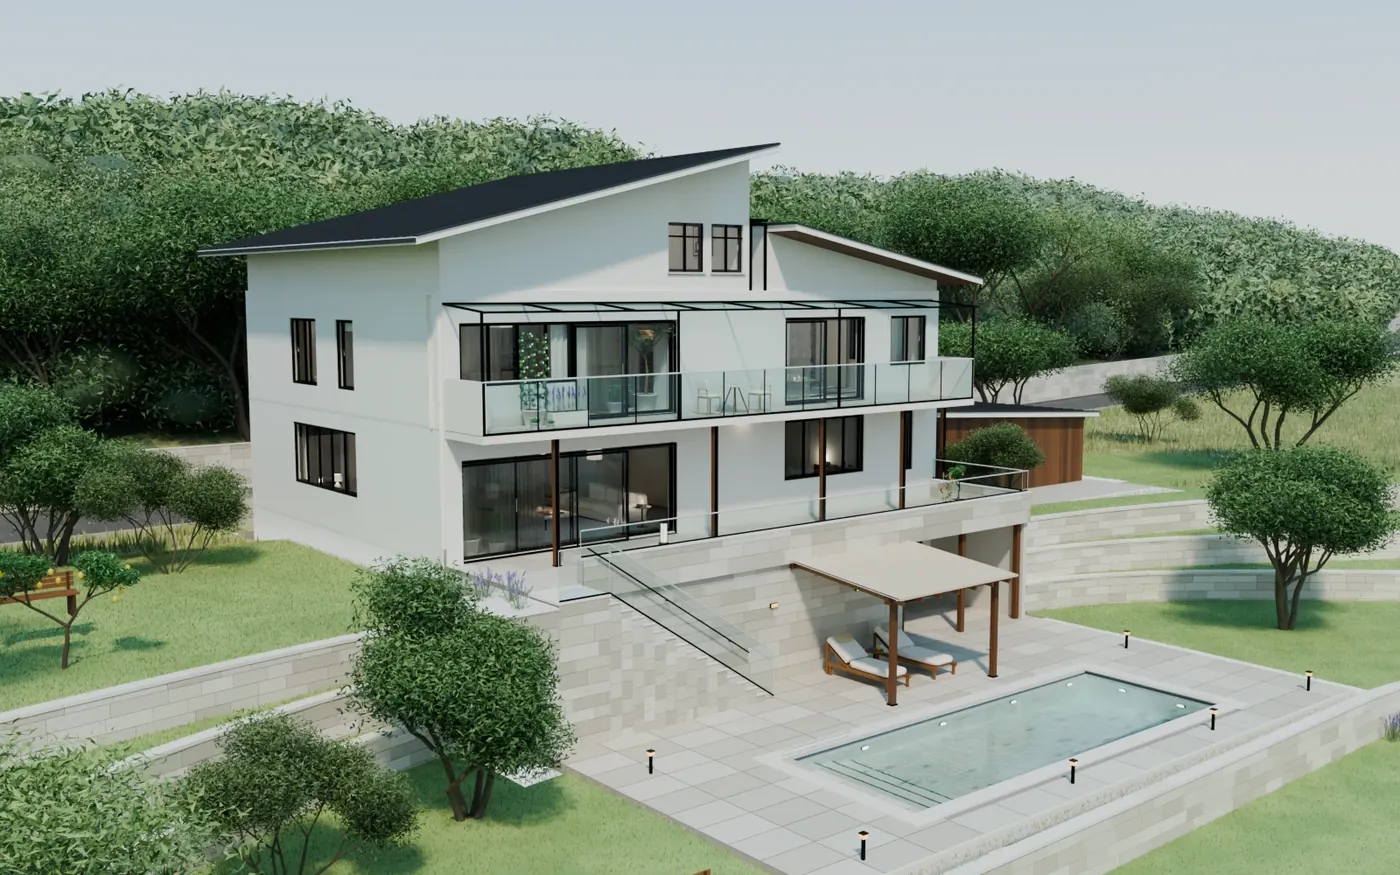
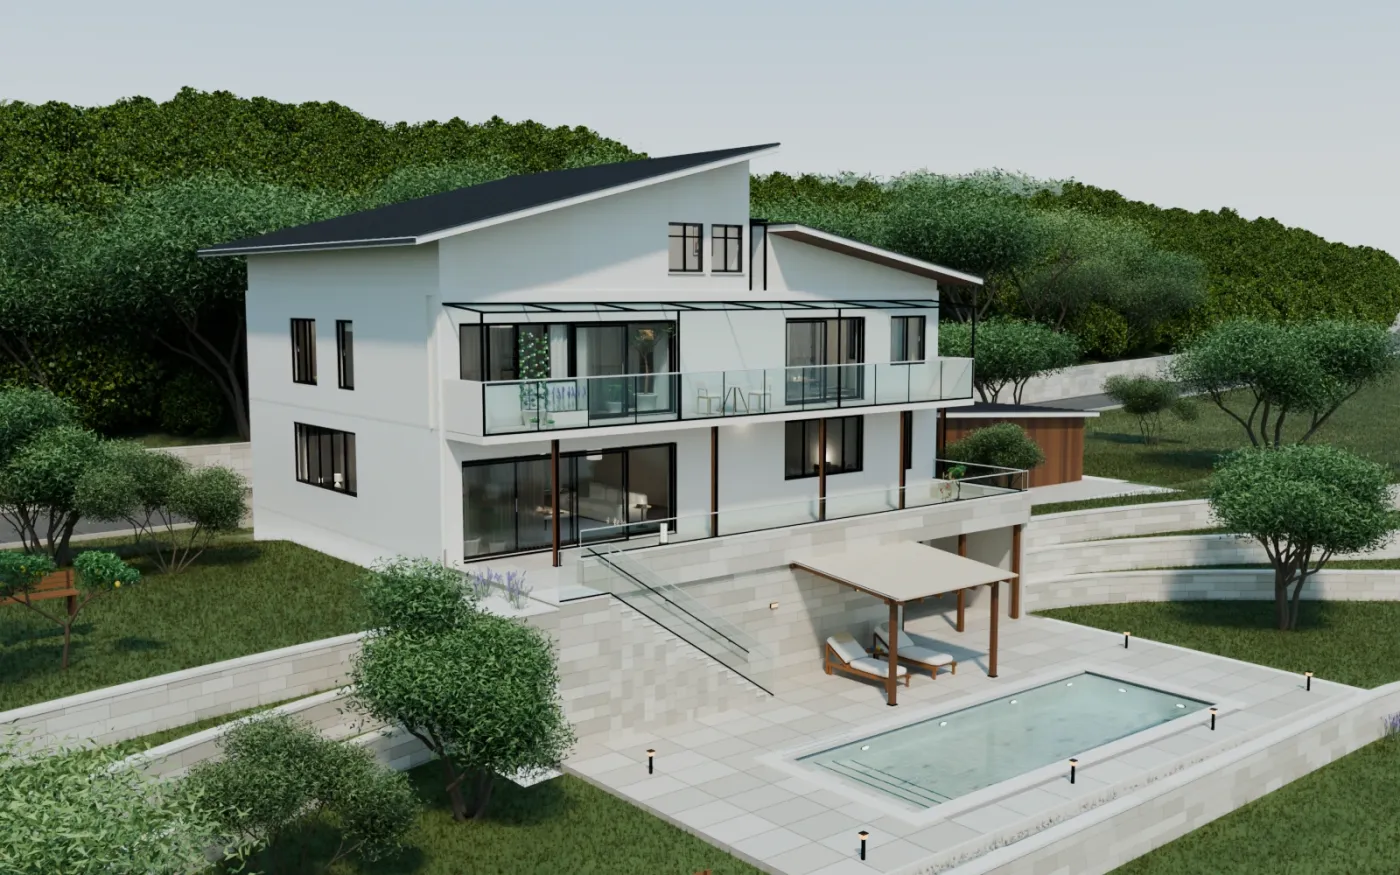
otter-home: panoramas you can turn, and the new renders
Thirty-nine views now carry a full-turn panorama. The bent window shows it
and turns as you drag; stepping inside opens a larger bent window, turned
the same way. Floor plans and the garden from above stay still pictures.
Twenty renders are replaced with the new ones (filled lawns, attic lamp).

diff --git a/components/otter-home/src/otter-home.js b/components/otter-home/src/otter-home.js
@@ -73,6 +73,51 @@ const I = {
   b1_storage: new URL('../assets/b1-storage.webp', import.meta.url).href,
 };
 
+/* the panoramas, one full turn each, taken from the same spot as the photo; the middle of each looks where the photo looks */
+const P = {
+  ext_sea: new URL('../assets/pano-ext-sea.webp', import.meta.url).href,
+  ext_south: new URL('../assets/pano-ext-south.webp', import.meta.url).href,
+  ext_west: new URL('../assets/pano-ext-west.webp', import.meta.url).href,
+  ext_iso: new URL('../assets/pano-ext-iso.webp', import.meta.url).href,
+  ext_pool: new URL('../assets/pano-ext-pool.webp', import.meta.url).href,
+  ext_pergola: new URL('../assets/pano-ext-pergola.webp', import.meta.url).href,
+  ext_onsen: new URL('../assets/pano-ext-onsen.webp', import.meta.url).href,
+  ext_road: new URL('../assets/pano-ext-road.webp', import.meta.url).href,
+  ext_cars: new URL('../assets/pano-ext-cars.webp', import.meta.url).href,
+  yard_west: new URL('../assets/pano-yard-west.webp', import.meta.url).href,
+  yard_bench: new URL('../assets/pano-yard-bench.webp', import.meta.url).href,
+  sea_far: new URL('../assets/pano-sea-far.webp', import.meta.url).href,
+  f3_screen: new URL('../assets/pano-f3-screen.webp', import.meta.url).href,
+  f3_sofa: new URL('../assets/pano-f3-sofa.webp', import.meta.url).href,
+  f2_bed: new URL('../assets/pano-f2-bed.webp', import.meta.url).href,
+  f2_nightstand: new URL('../assets/pano-f2-nightstand.webp', import.meta.url).href,
+  f2_dressing: new URL('../assets/pano-f2-dressing.webp', import.meta.url).href,
+  f2_makeup: new URL('../assets/pano-f2-makeup.webp', import.meta.url).href,
+  f2_study: new URL('../assets/pano-f2-study.webp', import.meta.url).href,
+  f2_reading: new URL('../assets/pano-f2-reading.webp', import.meta.url).href,
+  f2_bath: new URL('../assets/pano-f2-bath.webp', import.meta.url).href,
+  f2_vanity: new URL('../assets/pano-f2-vanity.webp', import.meta.url).href,
+  f2_washer: new URL('../assets/pano-f2-washer.webp', import.meta.url).href,
+  f2_toilet: new URL('../assets/pano-f2-toilet.webp', import.meta.url).href,
+  f2_balcony: new URL('../assets/pano-f2-balcony.webp', import.meta.url).href,
+  f1_living: new URL('../assets/pano-f1-living.webp', import.meta.url).href,
+  f1_console: new URL('../assets/pano-f1-console.webp', import.meta.url).href,
+  f1_dining: new URL('../assets/pano-f1-dining.webp', import.meta.url).href,
+  f1_kitchen: new URL('../assets/pano-f1-kitchen.webp', import.meta.url).href,
+  f1_cafe: new URL('../assets/pano-f1-cafe.webp', import.meta.url).href,
+  f1_toilet: new URL('../assets/pano-f1-toilet.webp', import.meta.url).href,
+  f1_genkan: new URL('../assets/pano-f1-genkan.webp', import.meta.url).href,
+  b1_cellar: new URL('../assets/pano-b1-cellar.webp', import.meta.url).href,
+  b1_lounge: new URL('../assets/pano-b1-lounge.webp', import.meta.url).href,
+  b1_listen: new URL('../assets/pano-b1-listen.webp', import.meta.url).href,
+  b1_shower: new URL('../assets/pano-b1-shower.webp', import.meta.url).href,
+  b1_closet: new URL('../assets/pano-b1-closet.webp', import.meta.url).href,
+  b1_pool: new URL('../assets/pano-b1-pool.webp', import.meta.url).href,
+  b1_storage: new URL('../assets/pano-b1-storage.webp', import.meta.url).href,
+};
+/* how far each photo looks up or down, in degrees: the panorama is hung so that this sits in the middle of the window */
+const PITCH = { ext_sea: -6.2, ext_south: -2.4, ext_west: -5.1, ext_iso: -24.0, ext_pool: -16.2, ext_pergola: -9.3, ext_onsen: -19.5, ext_road: 4.0, ext_cars: -8.4, yard_west: -2.2, yard_bench: -15.2, sea_far: -15.9, f3_screen: 0.0, f3_sofa: -6.2, f2_bed: -7.1, f2_nightstand: -24.4, f2_dressing: -8.2, f2_makeup: -9.8, f2_study: -11.1, f2_reading: -9.0, f2_bath: -11.5, f2_vanity: -9.5, f2_washer: -13.7, f2_toilet: -25.0, f2_balcony: -4.6, f1_living: -3.9, f1_console: -4.8, f1_dining: -4.9, f1_kitchen: -6.5, f1_cafe: -6.4, f1_toilet: -20.3, f1_genkan: -20.3, b1_cellar: -4.6, b1_lounge: -9.7, b1_listen: -6.9, b1_shower: -11.1, b1_closet: -7.1, b1_pool: -5.4, b1_storage: -8.7 };
+
 const LEVELS = [
   { name: 'Outside', shots: [['ext_sea', 'From the sea'], ['ext_south', 'The front'], ['ext_west', 'From the west'], ['ext_iso', 'From above'], ['ext_pool', 'Pool'], ['ext_pergola', 'Shade'], ['ext_onsen', 'Onsen balcony'], ['ext_road', 'From the road'], ['ext_cars', 'Carport']] },
   { name: 'Garden', shots: [['yard_west', 'West garden'], ['yard_bench', 'Bench above the sea'], ['yard_overview', 'The whole garden'], ['sea_far', 'Sea and house']] },
@@ -94,6 +139,7 @@ const ICON = {
 };
 
 const STRIPS = 24;
+const DEEP = 60;   /* strips in the view you step into: 100° of arc, under 2° each, so straight lines stay straight */
 /* the badge's lettering runs once round its circle, evenly spaced; the ring turns slowly while it is on screen */
 const RING = `<svg viewBox="0 0 140 140" aria-hidden="true"><defs><path id="ring" d="M70,70 m-46,0 a46,46 0 1,1 92,0 a46,46 0 1,1 -92,0"/>
 <linearGradient id="rg" x1="0" y1="0" x2="1" y2="1"><stop offset="0" stop-color="#b9d2a5"/><stop offset="1" stop-color="#e3c99e"/></linearGradient></defs>
@@ -114,7 +160,7 @@ const MARKUP = `<div class="board"><div class="stage">
 <button class="win" type="button" aria-label="Open full size"><span class="cyl">${'<i></i>'.repeat(STRIPS)}</span></button>
 <nav class="glass pan floors" aria-label="Floors"><h4>Floors</h4>${LEVELS.map((L, l) => `<button type="button" data-l="${l}">${L.name}</button>`).join('')}</nav>
 <div class="glass pan views"><h4>Views</h4><div class="vw"></div><button class="go" type="button">Step inside${ICON.go}</button></div>
-<div class="imm" aria-hidden="true"><img class="iimg" alt="" draggable="false">
+<div class="imm" aria-hidden="true"><img class="iimg" alt="" draggable="false"><div class="iwin"><span class="cyl">${'<i></i>'.repeat(DEEP)}</span></div>
 <button class="glass ib iback" type="button">${ICON.prev}<span>Back</span></button>
 <button class="glass ib iprev" type="button" aria-label="Previous">${ICON.prev}</button><button class="glass ib inext" type="button" aria-label="Next">${ICON.next}</button>
 <p class="glass icap"></p></div>
@@ -136,13 +182,33 @@ function run(root) {
   const fitVr = () => { if (host.offsetWidth) vr.style.setProperty('--k', host.offsetWidth / 1600); };
   new ResizeObserver(fitVr).observe(host);
   if (still) vr.classList.add('still');
-  const W = 940, H = 400, R = 760, ang = W / R, sw = W / STRIPS;
+  /* two bent windows: the big one in the space, and the larger one you step into; both are strips on a cylinder seen from inside */
+  const W = 940, H = 400;
   vr.style.setProperty('--ww', W); vr.style.setProperty('--wh', H);
-  root.querySelectorAll('.cyl i').forEach((s, i) => {
-    const a = -ang / 2 + (i + .5) * ang / STRIPS;
-    s.style.cssText = `left:${(-sw / 2 - .5).toFixed(1)}px;width:${(sw + 1).toFixed(1)}px;background-position:${-(i * sw).toFixed(1)}px 0;transform:translateZ(${R}px) rotateY(${(-a * 180 / Math.PI).toFixed(3)}deg) translateZ(${-R}px)`;
-  });
-  root.querySelector('.win').style.perspective = `${Math.round(R * 1.15)}px`;
+  const bend = (frame, w, h, r, eye = 1.15) => {
+    const el = frame.querySelector('.cyl'), strips = [...el.children], n = strips.length, ang = w / r, sw = w / n;
+    strips.forEach((s, i) => {
+      const a = -ang / 2 + (i + .5) * ang / n;
+      s.style.cssText = `left:${(-sw / 2 - .5).toFixed(1)}px;width:${(sw + 1).toFixed(1)}px;top:${-h / 2}px;height:${h}px;transform:translateZ(${r}px) rotateY(${(-a * 180 / Math.PI).toFixed(3)}deg) translateZ(${-r}px)`;
+    });
+    frame.style.perspective = `${Math.round(r * eye)}px`;
+    return { el, strips, w, h, r, sw };
+  };
+  const bigC = bend(root.querySelector('.win'), W, H, 760), deepC = bend(root.querySelector('.iwin'), 1142, 642, 924);
+  /* the ends of a bent window come toward you and look about 1.19 times taller than its middle (perspective 1.15 r, 71° of arc),
+     so the larger one is sized for its ends to fill the photo's own frame, 1360 × 765; the controls sit 48 in from the space's edge, clear of it */
+  /* a panorama wraps the whole cylinder once round, so a pixel of arc is a pixel of picture; turn is how far it has been dragged, in radians */
+  let turn = 0;
+  const hang = (c, k) => {
+    if (P[k]) {
+      const pw = 2 * Math.PI * c.r, ph = pw / 2, y = c.h / 2 - (90 - PITCH[k]) / 180 * ph, x = c.w / 2 - pw / 2 + turn * c.r;
+      c.el.style.setProperty('--img', `url(${P[k]})`); c.el.classList.add('pano');
+      c.strips.forEach((s, i) => { s.style.backgroundSize = `${pw.toFixed(1)}px ${ph.toFixed(1)}px`; s.style.backgroundPosition = `${(x - i * c.sw).toFixed(1)}px ${y.toFixed(1)}px`; });
+    } else {
+      c.el.style.setProperty('--img', `url(${I[k]})`); c.el.classList.remove('pano');
+      c.strips.forEach((s, i) => { s.style.backgroundSize = `${c.w}px ${c.h}px`; s.style.backgroundPosition = `${-(i * c.sw).toFixed(1)}px 0`; });
+    }
+  };
   /* the start screen comes first each time: choose where to begin, then Enter */
   const launch = root.querySelector('.launch'), picks = [...launch.querySelectorAll('.opts button')];
   let pick = 0;
@@ -166,7 +232,8 @@ function run(root) {
     lv = l; at = j;
     tabs.forEach((b, i) => { b.classList.toggle('on', i === l); b.setAttribute('aria-pressed', i === l); });
     const [k] = LEVELS[l].shots[j];
-    const paint = () => { cyl.style.setProperty('--img', `url(${I[k]})`); cyl.classList.remove('out'); };
+    if (changed) turn = 0;   /* a new view starts looking where its photo looks */
+    const paint = () => { hang(bigC, k); cyl.classList.remove('out'); };
     if (fade && changed && !still) { cyl.classList.add('out'); setTimeout(paint, 180); } else paint();
     vw.querySelectorAll('button').forEach((b, i) => b.classList.toggle('on', i === j));
     const [x, y, w, h] = HERE[LEVELS[l].name];
@@ -194,20 +261,40 @@ function run(root) {
   }
 
   /* stepping inside: the chosen picture grows to fill the space, with glass controls of the interface's own */
-  const imm = root.querySelector('.imm'), img = imm.querySelector('.iimg'), cap = imm.querySelector('.icap');
+  const imm = root.querySelector('.imm'), img = imm.querySelector('.iimg'), cap = imm.querySelector('.icap'), iwin = imm.querySelector('.iwin');
   const deep = () => vr.classList.contains('deep');
   const open = j => {
     const S = LEVELS[lv].shots, n = S.length;
     j = (j + n) % n;
     const [k, label] = S[j];
-    img.src = I[k];
     cap.textContent = `${j + 1} / ${n} · ${LEVELS[lv].name} · ${label}`;
     show(lv, j, false);
-    if (!still) { img.classList.remove('in'); void img.offsetWidth; img.classList.add('in'); }
+    /* with a panorama the space is the larger bent window you can turn; without one, the photo itself */
+    imm.classList.toggle('pano', !!P[k]);
+    const face = P[k] ? iwin : img;
+    if (P[k]) hang(deepC, k); else img.src = I[k];
+    if (!still) { face.classList.remove('in'); void face.offsetWidth; face.classList.add('in'); }
     vr.classList.add('deep'); imm.setAttribute('aria-hidden', 'false');
   };
   const back = () => { vr.classList.remove('deep'); imm.setAttribute('aria-hidden', 'true'); };
-  win.addEventListener('click', () => open(at));
+  /* drag sideways on a panorama to look round; a press that hardly moves is still a click. The space is drawn at 1600 wide and
+     scaled, and on a phone held upright it is turned a quarter, so the drag is measured in the space's own pixels along its width */
+  let moved = false;
+  const turnable = (frame, c) => {
+    let from = null;
+    const along = e => (upright.matches ? e.clientY : e.clientX) / (host.offsetWidth / 1600);
+    frame.addEventListener('pointerdown', e => { moved = false; if (!c.el.classList.contains('pano')) return; from = { x: along(e), turn }; frame.setPointerCapture(e.pointerId); });
+    frame.addEventListener('pointermove', e => {
+      if (!from) return;
+      const d = along(e) - from.x;
+      if (Math.abs(d) > 4) moved = true;
+      turn = from.turn + d / c.r; hang(c, LEVELS[lv].shots[at][0]);
+    });
+    const end = () => { from = null; };
+    frame.addEventListener('pointerup', end); frame.addEventListener('pointercancel', end);
+  };
+  turnable(win, bigC); turnable(iwin, deepC);
+  win.addEventListener('click', () => { if (moved) { moved = false; return; } open(at); });
   root.querySelector('.go').addEventListener('click', () => open(at));
   imm.querySelector('.iprev').addEventListener('click', () => open(at - 1));
   imm.querySelector('.inext').addEventListener('click', () => open(at + 1));
@@ -222,7 +309,8 @@ function run(root) {
   space.addEventListener('cancel', e => { if (deep()) { e.preventDefault(); back(); } });
   space.addEventListener('close', back);
   let sx = null, sy = 0;
-  imm.addEventListener('touchstart', e => { sx = e.touches[0].clientX; sy = e.touches[0].clientY; }, { passive: true });
+  /* a sideways swipe turns to the next photo; on a panorama the same gesture turns the view instead */
+  imm.addEventListener('touchstart', e => { sx = imm.classList.contains('pano') ? null : e.touches[0].clientX; sy = e.touches[0].clientY; }, { passive: true });
   imm.addEventListener('touchend', e => {
     if (sx === null) return;
     let dx = e.changedTouches[0].clientX - sx, dy = e.changedTouches[0].clientY - sy; sx = null;

diff --git a/components/otter-home/src/otter-home.css b/components/otter-home/src/otter-home.css
@@ -56,6 +56,10 @@ dialog.space[open] .vrhost { animation: vin .5s cubic-bezier(.2,.7,.2,1) both; }
 .cyl.out i { opacity: 0; }
 .cyl i { position: absolute; top: calc(var(--wh) * -.5px); height: calc(var(--wh) * 1px); background-image: var(--img); background-repeat: no-repeat;
   background-size: calc(var(--ww) * 1px) calc(var(--wh) * 1px); backface-visibility: hidden; }
+/* a panorama goes once round the cylinder and joins up with itself; you can take hold of it and turn it */
+.cyl.pano i { background-repeat: repeat-x; }
+.win:has(.cyl.pano), .iwin { cursor: grab; touch-action: none; }
+.win:has(.cyl.pano):active, .iwin:active { cursor: grabbing; }
 .cyl i:first-child { border-radius: 30px 0 0 30px; }
 .cyl i:last-child { border-radius: 0 30px 30px 0; }
 /* a filter on the cylinder would flatten it, so each strip brightens on its own */
@@ -95,17 +99,21 @@ dialog.space[open] .vrhost { animation: vin .5s cubic-bezier(.2,.7,.2,1) both; }
 .vr.deep .imm { opacity: 1; visibility: visible; transition: opacity .4s ease; }
 .vr.deep > :not(.imm):not(.bg):not(.sclose) { opacity: .0; transition: opacity .4s ease; }
 .iimg { position: absolute; left: 120px; top: 70px; width: 1360px; height: 765px; object-fit: cover; border-radius: 34px; box-shadow: 0 0 0 1px rgba(255,255,255,.25), 0 40px 80px -24px rgba(0,0,0,.45); }
-.iimg.in { animation: vin .9s cubic-bezier(.2,.7,.2,1) both; }
+.iimg.in, .iwin.in { animation: vin .9s cubic-bezier(.2,.7,.2,1) both; }
+/* the larger bent window you step into, in the photo's place; the photo shows only where there is no panorama */
+.iwin { position: absolute; inset: 0; overflow: hidden; perspective-origin: 50% 50%; }
+.imm.pano .iimg, .imm:not(.pano) .iwin { display: none; }
 @keyframes vin { from { opacity: 0; transform: scale(1.02); } }
 @keyframes vfade { from { opacity: 0; } }
 .ib { position: absolute; display: grid; place-items: center; color: #fff; border-radius: 50%; }
 .ib svg { width: 22px; height: 22px; fill: none; stroke: currentColor; stroke-width: 1.6; stroke-linecap: round; stroke-linejoin: round; transition: transform .25s; }
+/* the controls float over the picture, 48 in from every edge of the space */
 .iprev, .inext { top: 412px; width: 76px; height: 76px; }
-.iprev { left: 22px; } .inext { right: 22px; }
-.iback { left: 140px; top: 90px; width: auto; height: 52px; padding: 0 22px 0 16px; border-radius: 26px; display: flex; gap: 8px; font-weight: 500; font-size: 18px; }
-.icap { position: absolute; left: 50%; bottom: 90px; transform: translateX(-50%); margin: 0; padding: 12px 22px; border-radius: 999px; font-weight: 500; font-size: 17px; white-space: nowrap; }
+.iprev { left: 48px; } .inext { right: 48px; }
+.iback { left: 48px; top: 48px; width: auto; height: 52px; padding: 0 22px 0 16px; border-radius: 26px; display: flex; gap: 8px; font-weight: 500; font-size: 18px; }
+.icap { position: absolute; left: 50%; bottom: 48px; transform: translateX(-50%); margin: 0; padding: 12px 22px; border-radius: 999px; font-weight: 500; font-size: 17px; white-space: nowrap; }
 @media (hover: hover) { .iprev:hover svg { transform: translateX(-3px); } .inext:hover svg { transform: translateX(3px); } .iback:hover svg { transform: translateX(-3px); } }
-.vr.still .imm, .vr.still .iimg { transition: none !important; animation: none !important; }
+.vr.still .imm, .vr.still .iimg, .vr.still .iwin { transition: none !important; animation: none !important; }
 .vr button:focus, .vr button:focus-visible { outline: none !important; }
 
 /* ---------- the start screen, first thing in the interface ---------- */

diff --git a/components/otter-home/DESIGN.md b/components/otter-home/DESIGN.md
@@ -8,11 +8,11 @@ description: A four-level house on a hillside by the sea, built in Blender, pres
 
 ## Overview
 
-A house that exists only as a Blender scene: four levels stepped into a slope above the sea, white walls, a dark mono-pitch roof, glass rails, timber where hands touch it, a pool on the lowest terrace. Every view of it is rendered in Cycles, forty-four in all.
+A house that exists only as a Blender scene: four levels stepped into a slope above the sea, white walls, a dark mono-pitch roof, glass rails, timber where hands touch it, a pool on the lowest terrace. Every view of it is rendered in Cycles, forty-four in all, and thirty-nine of them also as a panorama taken from the same spot, one full turn round.
 
 On the page it is three sheets of a launch page on a pale grey board, the way a headset is announced. The large one carries small labels across the top, a headline set light and bold, a short paragraph and two screens of the interface, the main view behind and the start screen laid over it, with a frosted badge whose lettering turns slowly. Beside it, How it works shows the three steps, each a small screen, a name and two lines; What you see labels the parts of the interface with thin lines. All three sit on soft colour under a fine grain.
 
-Open any sheet and the interface comes up over the page, always in its wide layout, scaled to the screen. On a phone held upright it turns a quarter so it fills the screen when the phone is turned. It opens on a start screen: Where would you like to begin, with Outside, Garden and Inside, then Enter. One wide window is bent round you like a curved screen. The floors hang on the left, the views of the chosen floor on the right, and close at hand a small desk holds the whole house seen from above, with a frame marking the part you are looking at. Step inside, or a click on the big window, fills the space with a render, and the pictures turn one after another.
+Open any sheet and the interface comes up over the page, always in its wide layout, scaled to the screen. On a phone held upright it turns a quarter so it fills the screen when the phone is turned. It opens on a start screen: Where would you like to begin, with Outside, Garden and Inside, then Enter. One wide window is bent round you like a curved screen. The floors hang on the left, the views of the chosen floor on the right, and close at hand a small desk holds the whole house seen from above, with a frame marking the part you are looking at. Where a view has a panorama, the window shows it and you can drag sideways to look round; the floor plans and the whole garden from above stay still pictures. Step inside, or a click on the big window, opens a larger bent window in the space, turned the same way, and the views turn one after another.
 
 ## Influences
 
@@ -82,7 +82,9 @@ The board is drawn at 1760 × 720 and the interface at 1600 × 900; both are sca
 | Board | 1760 × 720, pale grey, at most 820px wide on the page |
 | Sheets | 1108 × 623 on the left; 532 × 299 twice on the right, 24px apart, 48px from the edges |
 | Badge | 92px across, where the two screens meet |
-| Interface: window | 940 × 400, centred, bent on a cylinder of radius 760 |
+| Interface: window | 940 × 400, centred, bent on a cylinder of radius 760, seen from 1.15 times the radius |
+| Panorama | One full turn wraps the cylinder once (2πr wide), so a pixel of arc is a pixel of picture; hung so the photo's own pitch sits in the middle |
+| Stepping inside | A bent window 1142 × 642 on a cylinder of radius 924; its ends fill the photo frame of 1360 × 765. Controls 48px in from the edges of the space |
 | Interface: floors and views | 260px wide each, 60px from the left and right edges, the same distance from the window |
 | Interface: desk | 480px wide, under the window, tipped back 28 degrees |
 
@@ -103,8 +105,9 @@ Rounded everywhere: 24px for the picture on the sheet, 30px for panels, 36px for
 - **Floors.** Outside, Garden, 3F, 2F, 1F, B1. Choosing one fills the views and shows its first picture.
 - **Views.** Every render of the chosen floor in two columns, scrolling inside the panel.
 - **Desk.** The house from above, a frame moving to the floor you are on.
-- **Stepping inside.** Step inside, or a click on the big window, grows the chosen render to fill the space inside the interface, with glass round buttons either side for the previous and next picture, a glass Back at the top left and a caption below. The arrow keys and a swipe turn the pictures; Escape steps back to the interface, then closes it.
-- **Reduced motion.** Nothing moves: no parallax, no fades, no turning badge.
+- **Panoramas.** 39 of the 44 views. Drag sideways on the window to turn it; a press that hardly moves is still a click. A new view starts looking where its photo looks.
+- **Stepping inside.** Step inside, or a click on the big window, opens a larger bent window with the panorama, turned the same way, or the photo where there is none. Glass round buttons either side for the previous and next view, a glass Back at the top left and a caption below, all 48px in from the edges. Drag turns the panorama; the arrow keys turn the views, and so does a swipe on a photo; Escape steps back to the interface, then closes it.
+- **Reduced motion.** Nothing moves on its own: no parallax, no fades, no turning badge. Dragging a panorama still turns it.
 
 ## Do's and Don'ts
 
@@ -113,4 +116,5 @@ Rounded everywhere: 24px for the picture on the sheet, 30px for panels, 36px for
 - Do keep the two side panels the same width and the same distance from the edges.
 - Don't put a filter on the bent window itself; it flattens the curve. Filter the strips.
 - Don't show a real headset or a real brand.
-- Don't run anything while the pointer is still; the interface is still pictures and transitions only.
+- Don't run anything while the pointer is still; the interface is still pictures, transitions and the turn you drag.
+- Don't lay a panorama flat; it bends like a fisheye. It always hangs on a cylinder.
